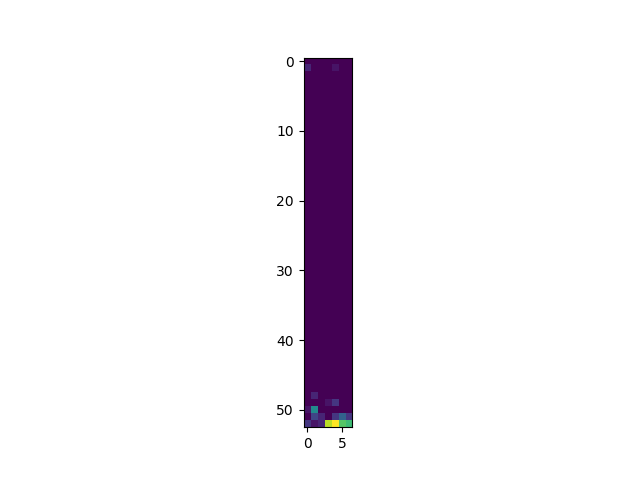
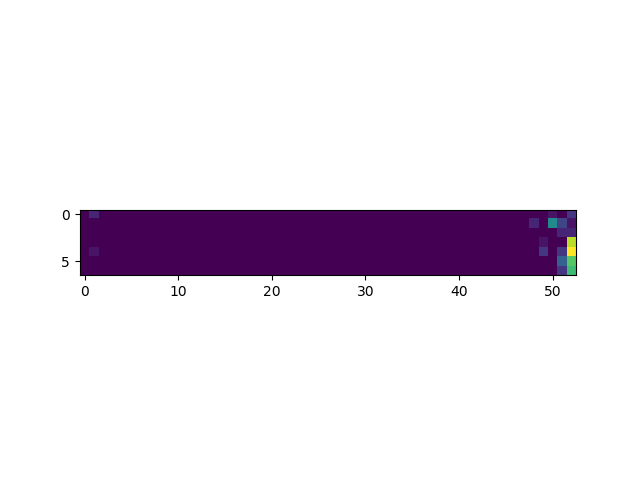
pivot the timeline rectangle

Changed region(s): [[0.0938, 0.0938, 0.9062, 0.9375]]

diff --git a/gitlog.py b/gitlog.py
@@ -12,7 +12,7 @@ res = subprocess.check_output(f'git --git-dir {address}.git\ log --pretty=format
 
 date = {}
 
-timeline = np.zeros((53, 7))
+timeline = np.zeros((7, 53))
 commit = np.zeros((7, 24))
 
 i = 0
@@ -21,7 +21,7 @@ for line in res.splitlines():
 
     calendar = date[i].isocalendar()
 
-    timeline[calendar[1]][calendar[2] -1 ] += 1
+    timeline[calendar[2] -1][calendar[1]] += 1
     commit[calendar[2] -1][date[i].hour] += 1
 
     i += 1
